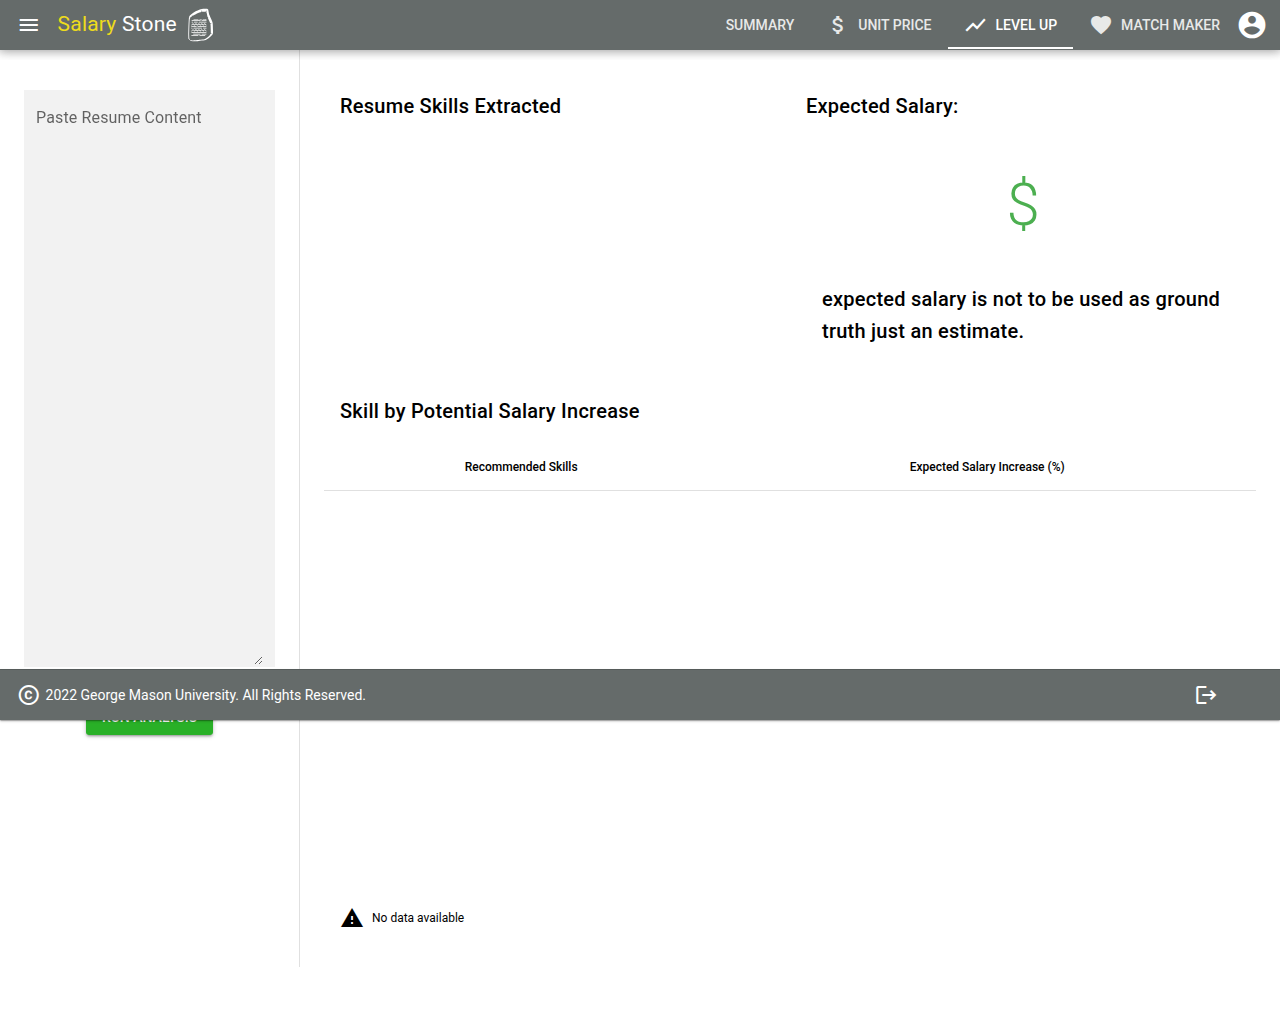
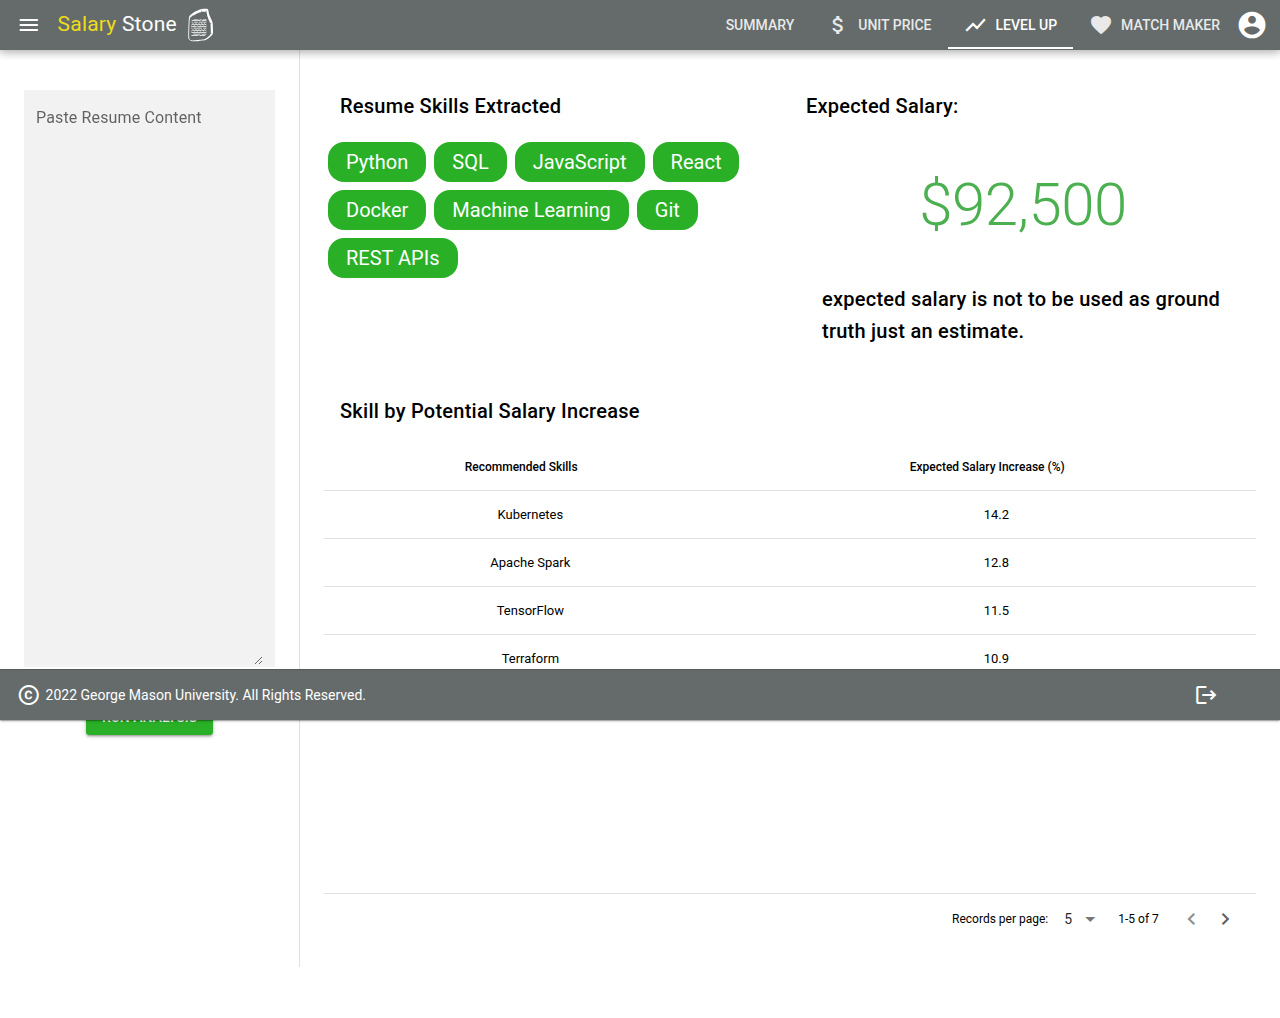
feat: populate stores with dummy data and update screenshots
Agent-Logs-Url: https://github.com/nickmayn/salary_stone_ui/sessions/ebd78e69-ca3c-4477-90ef-6b0347474e1f

diff --git a/src/store/unitprice.ts b/src/store/unitprice.ts
@@ -7,13 +7,32 @@ const {
   } = useApi();
 
 const state = reactive({
-    jobdesc: '',
-    expectedSalary: null,
-    avgSalary: null,
-    stdSalary: null,
-    extractedSkills: [],
-    skillBins: [],
-    similarity: {vals: []},
+    jobdesc: 'Senior Software Engineer with 5 years of experience in Python, JavaScript, SQL, Machine Learning, Docker, and React.',
+    expectedSalary: 95000,
+    avgSalary: 87500,
+    stdSalary: 12000,
+    extractedSkills: [
+      {
+        name: 'Skill Breakdown',
+        data: [
+          { x: 'Python', y: 68 },
+          { x: 'SQL', y: 54 },
+          { x: 'JavaScript', y: 45 },
+          { x: 'Machine Learning', y: 38 },
+          { x: 'Docker', y: 32 },
+          { x: 'React', y: 41 },
+          { x: 'AWS', y: 29 },
+          { x: 'Java', y: 22 },
+        ]
+      }
+    ],
+    skillBins: [
+      {
+        name: 'Job Count',
+        data: [3, 8, 22, 41, 73, 95, 88, 62, 40, 21, 11]
+      }
+    ],
+    similarity: { vals: [78, 65, 82, 55, 70] },
     chartOptionsRadial: {
       chart: {
         height: 350,
@@ -39,7 +58,7 @@ const state = reactive({
           }
         }
       },
-      labels: []
+      labels: ['Software Eng', 'Data Scientist', 'ML Engineer', 'Backend Dev', 'Full Stack Dev']
     },
 });
 

diff --git a/src/store/levelup.ts b/src/store/levelup.ts
@@ -7,10 +7,27 @@ const {
 
 const state = reactive({
     resume: '',
-    expectedSalary: '',
+    expectedSalary: '92,500',
     loading: false,
-    recRows: [],
-    skills: []
+    recRows: [
+      { recskills: 'Kubernetes', recskillsalincrease: 14.2 },
+      { recskills: 'Apache Spark', recskillsalincrease: 12.8 },
+      { recskills: 'TensorFlow', recskillsalincrease: 11.5 },
+      { recskills: 'Terraform', recskillsalincrease: 10.9 },
+      { recskills: 'Scala', recskillsalincrease: 9.7 },
+      { recskills: 'Go', recskillsalincrease: 8.3 },
+      { recskills: 'Rust', recskillsalincrease: 7.6 },
+    ],
+    skills: [
+      { x: 'Python' },
+      { x: 'SQL' },
+      { x: 'JavaScript' },
+      { x: 'React' },
+      { x: 'Docker' },
+      { x: 'Machine Learning' },
+      { x: 'Git' },
+      { x: 'REST APIs' },
+    ]
 });
 
 export async function extractSkills(resume: string) {

diff --git a/README.md b/README.md
@@ -5,19 +5,19 @@ A salary analysis and prediction tool built with [Quasar](https://quasar.dev/) (
 ## Screenshots
 
 ### Login
-![Login](https://github.com/user-attachments/assets/359bf0d8-adf0-4a2b-9337-5f81650fd2b8)
+![Login](screenshots/login.png)
 
 ### Summary
-![Summary](https://github.com/user-attachments/assets/540c0b32-05be-4164-87bf-254bd94ceb61)
+![Summary](screenshots/summary.png)
 
 ### Unit Price
-![Unit Price](https://github.com/user-attachments/assets/271d8dc1-5d13-40e2-8e5b-3f89322b4034)
+![Unit Price](screenshots/unitprice.png)
 
 ### Level Up
-![Level Up](https://github.com/user-attachments/assets/e0c0b53e-f219-462b-810f-47b7d17a9261)
+![Level Up](screenshots/levelup.png)
 
 ### Match Maker
-![Match Maker](https://github.com/user-attachments/assets/83d8ac72-f01b-4dfa-a405-65a3cebd49ce)
+![Match Maker](screenshots/matchmaker.png)
 
 ## Install the dependencies
 ```bash
